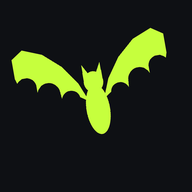
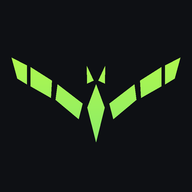
Operación Batman: icono futurista de murciélago geométrico (diseño propio)
Claude-Session: https://claude.ai/code/session_0136anGwXVA4PohtLM3ELyZh

Changed region(s): [[0.0625, 0.125, 0.9375, 0.75]]

diff --git a/focus/sw.js b/focus/sw.js
@@ -1,5 +1,5 @@
 // Service worker de Focus: la app abre aunque no haya conexión; los datos siempre van a la red.
-const CACHE = 'focus-v5';
+const CACHE = 'focus-v6';
 const ASSETS = ['./', './index.html', './manifest.json', './icon-180.png', './icon-192.png', './icon-512.png'];
 self.addEventListener('install', e => {
   e.waitUntil(caches.open(CACHE).then(c => c.addAll(ASSETS)).then(() => self.skipWaiting()));
